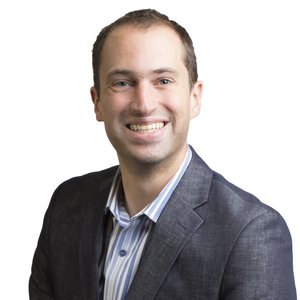
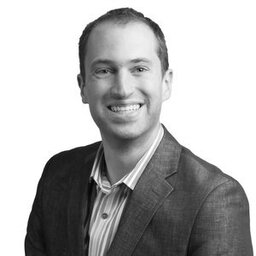
Update the source images to weigh less

diff --git a/templates/shortcodes/guardians.html b/templates/shortcodes/guardians.html
@@ -4,14 +4,14 @@
         <div class="guardian">
             {% if loop.index %2 == 0 %}
             <div class="guardian-details">
-                <span class="guardian-name">{{ guardian.name }}</span>
+                <h4 class="guardian-name">{{ guardian.name }}</h4>
                 <p>{{ guardian.bio }}</p>
             </div>
             <img class="guardian-picture" src="/about/{{ guardian.picture }}" alt="Mugshot of {{ guardian.name }}" />
             {% else %}
             <img class="guardian-picture" src="/about/{{ guardian.picture }}" alt="Mugshot of {{ guardian.name }}" />
             <div class="guardian-details">
-                <span class="guardian-name">{{ guardian.name }}</span>
+                <h4 class="guardian-name">{{ guardian.name }}</h4>
                 <p>{{ guardian.bio }}</p>
             </div>
             {% endif %}

diff --git a/sass/_guardians.scss b/sass/_guardians.scss
@@ -1,6 +1,7 @@
 .guardian {
     display: flex;
     flex-direction: row;
+    margin-bottom: 20px;
 
     .guardian-picture {
         width: 128px;
@@ -9,16 +10,16 @@
         min-height: 128px;
         border-radius: 128px;
         margin: 20px;
-        filter: grayscale(100%);
     }
 
     .guardian-details {
         display: flex;
         flex-direction: column;
-        padding: 20px;
+        //padding: 20px;
 
         .guardian-name {
             font-weight: bold;
+            margin: 0px;
         }
     }
 }
